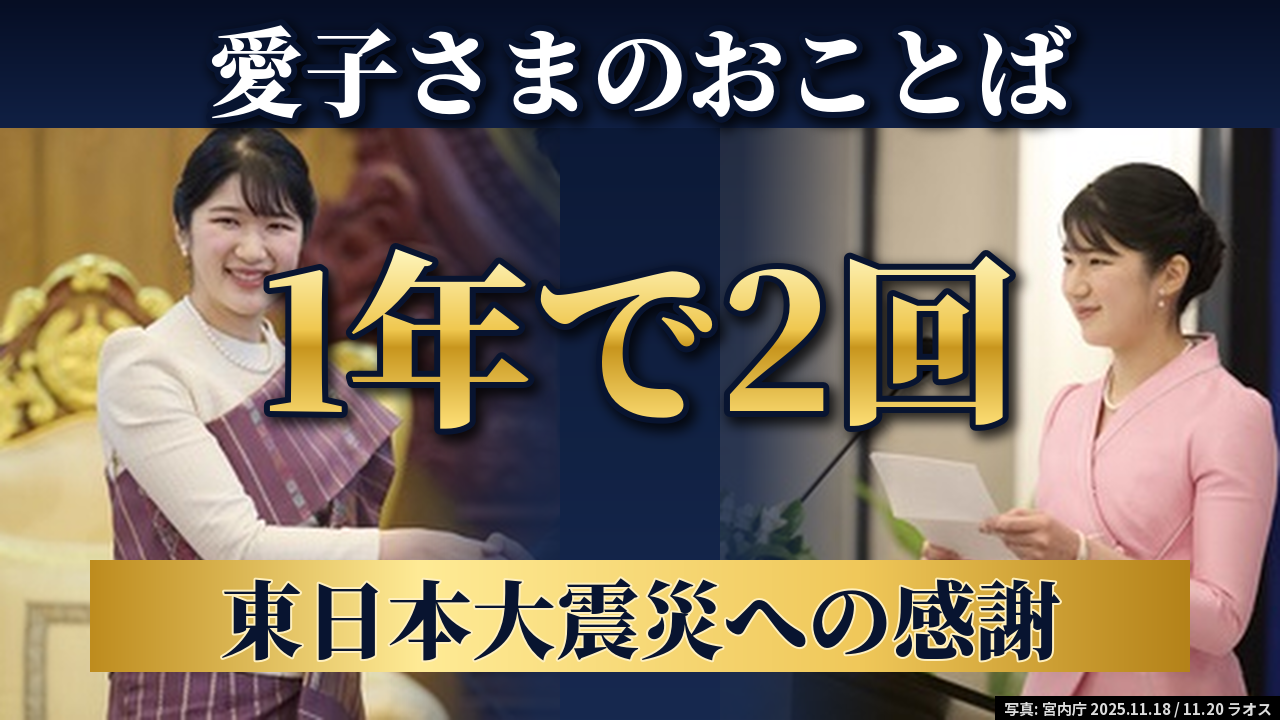
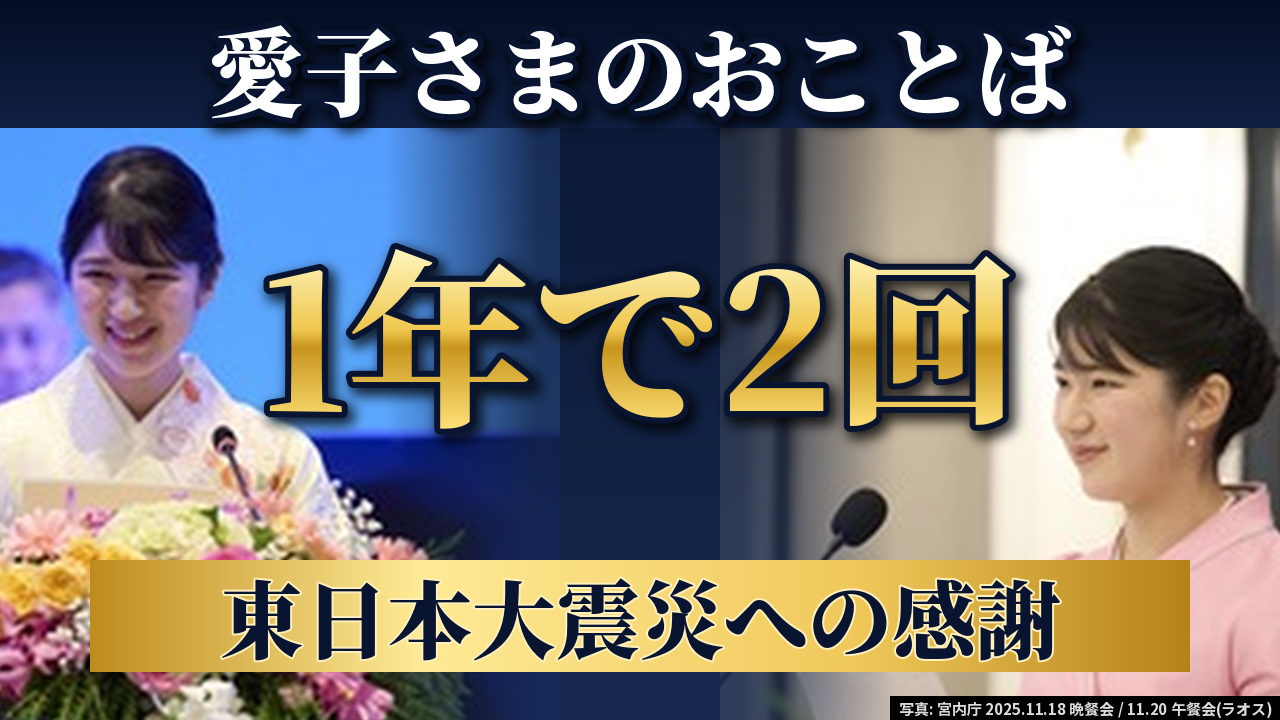
長尺の表紙: お顔を文字に重ねない・見切れさせない配置と検査を追加(荒木指示)
Claude-Session: https://claude.ai/code/session_01BJaPieHBuTRAAQkfULpzEX

diff --git a/pipeline/thumb_long.py b/pipeline/thumb_long.py
@@ -33,6 +33,45 @@ def photo(path, w, h, focus=None, zoom=4.2, fy=0.36):
     return Image.fromarray(cv2.cvtColor(cv2.resize(c, (w, h), interpolation=cv2.INTER_LANCZOS4), cv2.COLOR_BGR2RGB))
 
 
+def place(path, pw, ph, target, fh_t, focus=None):
+    """人物のお顔を、文字と重ならない決まった位置(target=(x,y)・パネル内)に、決まった大きさ(fh_t=顔の高さpx)で置く。
+    写真が足りない所は同じ写真のぼかしで埋める(見切れの隙間を作らない)。focus=(x割合,y割合,顔の高さ割合) で手動指定可"""
+    img = cv2.imread(path); ih, iw = img.shape[:2]
+    if focus:
+        cx, cy, fh = focus[0] * iw, focus[1] * ih, focus[2] * ih
+    else:
+        fs = faces(img)
+        if not fs and iw < 1000:  # 小さい写真は拡大して検出し直す
+            k = 1000 / iw; fs = [(x / k, y / k, w / k, h / k) for (x, y, w, h) in faces(cv2.resize(img, None, fx=k, fy=k))]
+        if not fs:
+            raise SystemExit(f"{path}: お顔を検出できません。focus=(x割合,y割合,顔の高さ割合)で指定してください")
+        x, y, fw, fh = max(fs, key=lambda f: f[2] * f[3]); cx, cy = x + fw / 2, y + fh / 2
+    s = fh_t / fh
+    big = cv2.resize(img, (max(1, int(iw * s)), max(1, int(ih * s))), interpolation=cv2.INTER_LANCZOS4)
+    ox, oy = int(target[0] - cx * s), int(target[1] - cy * s)
+    cs = max(pw / iw, ph / ih)
+    bg = cv2.GaussianBlur(cv2.resize(img, (int(iw * cs) + 2, int(ih * cs) + 2)), (0, 0), 18)
+    canvas = bg[:ph, :pw].copy()
+    x0, y0 = max(0, ox), max(0, oy); x1, y1 = min(pw, ox + big.shape[1]), min(ph, oy + big.shape[0])
+    canvas[y0:y1, x0:x1] = big[y0 - oy:y1 - oy, x0 - ox:x1 - ox]
+    fw_t = fh_t  # 顔の幅はおよそ高さと同じ
+    place.last_face = (target[0] - fw_t / 2, target[1] - fh_t / 2, fw_t, fh_t)
+    return Image.fromarray(cv2.cvtColor(canvas, cv2.COLOR_BGR2RGB))
+
+
+def check_faces(path, face_boxes, text_boxes):
+    """置いたお顔(頭の範囲)が、文字の枠と重ならず、画面の外に見切れていないかを確かめる"""
+    bad = []
+    for (x, y, w, h) in face_boxes:
+        hx0, hy0, hx1, hy1 = x - w * 0.25, y - h * 0.55, x + w * 1.25, y + h * 1.15   # 髪と顎を含む頭の範囲
+        if hx0 < 0 or hy0 < 0 or hx1 > W or hy1 > H:
+            bad.append(f"見切れ 頭{(int(hx0), int(hy0), int(hx1), int(hy1))}")
+        for (a, b, c, d) in text_boxes:
+            if hx0 < c and hx1 > a and hy0 < d and hy1 > b:
+                bad.append(f"文字と重なり 頭{(int(hx0), int(hy0), int(hx1), int(hy1))} 文字{(a, b, c, d)}")
+    print(path, "顔の位置 OK" if not bad else bad)
+    return not bad
+
 def grad(w, h, stops, horizontal=False):
     n = w if horizontal else h
     arr = np.zeros((n, 3))
@@ -84,27 +123,33 @@ def credit(im, s):
 def type_R(out, img, focus, big, band, line, cap):
     """右に人物1名(画面の約6割)・左に文字(大・金の帯・一言)"""
     im = Image.new("RGB", (W, H), NAVY)
-    ph = photo(img, 820, H, focus); im.paste(ph, (W - 820, 0))
+    ph = place(img, 820, H, (560, 300), 230, focus); im.paste(ph, (W - 820, 0))
+    fx, fy, fw, fh = place.last_face; faces_ = [(fx + W - 820, fy, fw, fh)]
     fade = grad(W, H, [(0, (255, 255, 255)), (0.36, (255, 255, 255)), (0.62, (0, 0, 0)), (1, (0, 0, 0))], horizontal=True).convert("L")
     bg = grad(W, H, [(0, (6, 16, 40)), (1, (20, 40, 80))])
     im = Image.composite(bg, im, fade)
     text(im, (40, 30), big, 170, maxw=640)
     gold_band(im, (30, 300, 700, 420), band, 92)
     text(im, (40, 455), line, 104, maxw=700)
-    credit(im, cap); im.save(out); print(out)
+    credit(im, cap); im.save(out)
+    check_faces(out, faces_, [(30, 30, 740, 230), (30, 300, 700, 420), (30, 455, 760, 600)])
 
 
 def type_D(out, img1, f1, img2, f2, top, big, band, cap):
     """左右に人物2名・中央に大きな金の一言・上と下に帯"""
     im = Image.new("RGB", (W, H), NAVY)
-    im.paste(photo(img1, 560, H, f1), (0, 0)); im.paste(photo(img2, 560, H, f2), (W - 560, 0))
+    p1 = place(img1, 560, H, (130, 300), 150, f1); fa = place.last_face
+    p2 = place(img2, 560, H, (430, 300), 150, f2); fb = place.last_face
+    im.paste(p1, (0, 0)); im.paste(p2, (W - 560, 0))
+    faces_ = ([fa] if f1 is None or len(f1) < 4 else []) + ([(fb[0] + W - 560, fb[1], fb[2], fb[3])] if f2 is None or len(f2) < 4 else [])
     mid = grad(W, H, [(0, (0, 0, 0)), (0.30, (0, 0, 0)), (0.42, (255, 255, 255)), (0.58, (255, 255, 255)), (0.70, (0, 0, 0)), (1, (0, 0, 0))], horizontal=True).convert("L")
     im = Image.composite(grad(W, H, [(0, (10, 22, 50)), (1, (25, 45, 85))]), im, mid.point(lambda v: int(v * 0.85)))
     top_band = grad(W, 128, [(0, (6, 14, 36)), (1, (16, 32, 68))]); im.paste(top_band, (0, 0))
     text(im, (W // 2, 66), top, 96, anchor="mm", maxw=1220)
     text(im, (W // 2, 330), big, 200, fill="gold", anchor="mm", maxw=760)
     gold_band(im, (90, 560, 1190, 672), band, 84)
-    credit(im, cap); im.save(out); print(out)
+    credit(im, cap); im.save(out)
+    check_faces(out, faces_, [(0, 0, W, 128), (250, 220, 1030, 440), (90, 560, 1190, 672)])
 
 
 if __name__ == "__main__":
@@ -113,7 +158,7 @@ if __name__ == "__main__":
     O = str(Path(__file__).resolve().parents[1] / "samples/long_aiko_2countries") + "/"
     type_R(O + "thumb_A.png", A + "A115.jpg", None, "愛子さま", "2つの国のおことば", "込めた感謝とは？",
            "写真: 宮内庁 令和7年12月1日公表")
-    type_D(O + "thumb_B.png", S + "lao_599_1.jpeg", (0.36, 0.42, 1.0), S + "lao_609_1.jpeg", (0.50, 0.45, 1.0),
-           "愛子さまのおことば", "1年で2回", "東日本大震災への感謝", "写真: 宮内庁 2025.11.18 / 11.20 ラオス")
-    type_D(O + "thumb_C.png", A + "A020.jpg", None, S + "jg.jpg", (0.55, 0.55, 1.0),
+    type_D(O + "thumb_B.png", S + "lao_601_3.jpeg", None, S + "lao_609_1.jpeg", (0.62, 0.28, 0.15),
+           "愛子さまのおことば", "1年で2回", "東日本大震災への感謝", "写真: 宮内庁 2025.11.18 晩餐会 / 11.20 午餐会(ラオス)")
+    type_D(O + "thumb_C.png", A + "A020.jpg", None, S + "jg.jpg", (0.5, 0.5, 0.21, "scene"),
            "祖父母が植えた木", "56年前", "シンガポールで語られた3代", "写真: 宮内庁 2026.6.22 ©Naoya Ikegami/SUNTORY HALL / イメージ: 日本庭園 FN-082 CC BY-SA 4.0")

diff --git a/templates/thumb_long_template.md b/templates/thumb_long_template.md
@@ -19,6 +19,7 @@
 - **文字はワンフレーズで短く**（1行あたり目安8〜10字。長い文は載せない）。表紙の文字はタイトルの言葉から取る
 - 背景は写真。写真のない所は濃紺のグラデーション（写真へなじませる）
 - 赤・絵文字・汗マーク・?!・赤丸・作り台詞の吹き出し・矢印は使わない。写真は切り抜き・拡大縮小のみ（顔の加工・AI生成はしない。参考画像の生成画像そのものは使わない）
+- **お顔を文字に重ねない・見切れさせない（荒木指示 2026-11-24）：** お顔は決まった位置に決まった大きさで置く（型R: 右側 x約1020・顔の高さ約230px／型D: 左 x約130・右 x約1150・顔の高さ約150px、いずれも y約300）。髪から顎までの頭の範囲が、文字・帯の枠と重ならず、画面の外に出ないことを `check_faces` で必ず確かめる（不合格なら写真か位置を変える）。写真が足りない所は同じ写真のぼかしで埋める。主役以外の方のお顔が文字の下に半分隠れる写真は使わない
 - 右下に小さく写真の出典・撮影日
 
 **型R（人物1名）**: 右6割に人物の写真、左に「大きな一言（白・約170px）」→「金の帯（約92px）」→「一言（白・約104px）」
